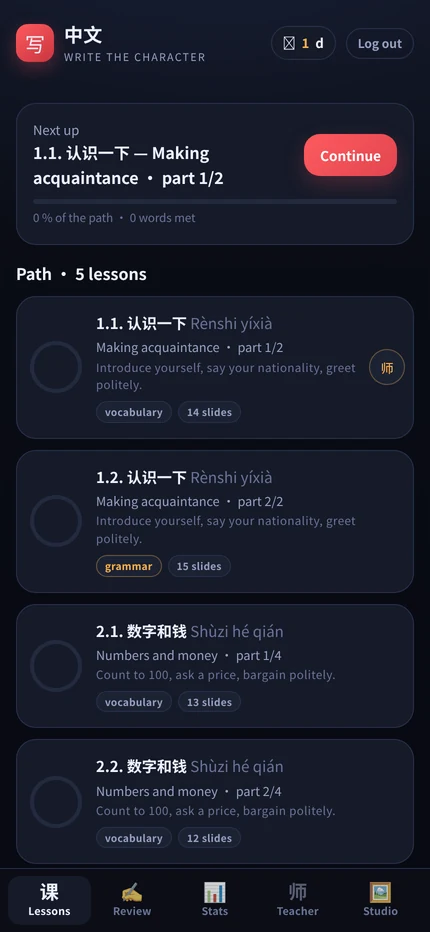
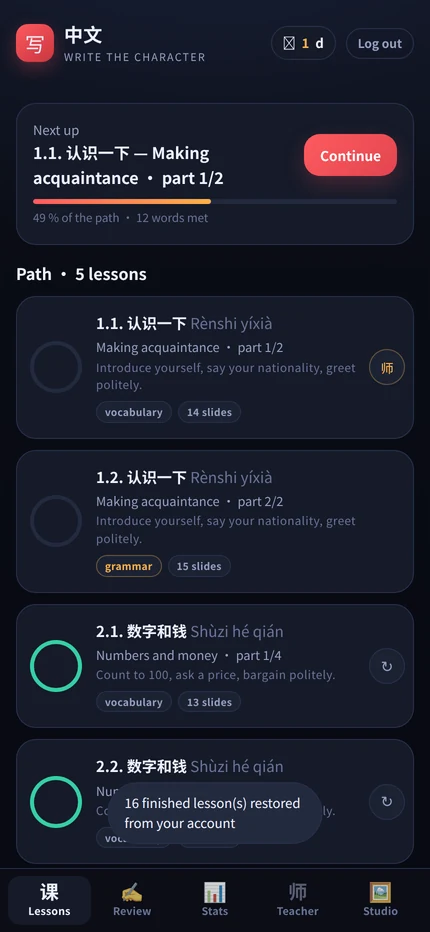
Add a pronunciation deck: word or sentence, said aloud, graded like the others
Third deck, same two piles. Cards come from the words you have met and the
sentences your lessons unlocked; the front shows only the Chinese, the back
the pinyin, the model audio and a microphone check (account only). Hard keeps
the card in today's pile, Okay sends it to the top of the deck, Easy to the
bottom. Reviews can be re-cut like the other two.

diff --git a/app/index.html b/app/index.html
@@ -406,6 +406,21 @@
       <button class="btn ghost full" id="restartSent" style="margin-top:8px;padding:10px;font-size:13px">↻ Restart sentences session</button>
       <p class="note" style="margin:10px 0 0">Sentences unlock as you finish lessons. Pinyin prompt, five characters at a time, validate at the end.</p>
     </div>
+
+    <div class="card" style="margin-bottom:14px">
+      <div class="spread">
+        <div>
+          <h2 style="margin:0">Pronunciation</h2>
+          <div class="sm muted" id="pronTxt" style="margin-top:2px">—</div>
+        </div>
+        <div class="pill brand" id="pronPill">0</div>
+      </div>
+      <div class="row" style="gap:8px;margin-top:14px">
+        <button class="btn primary full" id="btnPron">Say it out loud</button>
+      </div>
+      <button class="btn ghost full" id="restartPron" style="margin-top:8px;padding:10px;font-size:13px">↻ Restart pronunciation session</button>
+      <p class="note" style="margin:10px 0 0">Words and sentences you have met, one card at a time: say it, flip, hear the model, grade yourself.</p>
+    </div>
     <div class="card">
       <h2>Two piles</h2>
       <p class="note" style="margin:0">Each day takes the top <b id="perInline">20</b> cards into the study pile. Write the character, flip, judge yourself:
@@ -1218,6 +1233,8 @@ function fresh() {
   return { v: 2, words: {}, lessons: {}, days: {}, events: [], teacher: [], runs: [],
            deck: [], study: { date: "", queue: [] },
            sdeck: [], sstudy: { date: "", queue: [] }, sseed: false,
+           pdeck: [], pstudy: { date: "", queue: [] },
+           pmeta: { done: 0, easy: 0, okay: 0, hard: 0 },
            smeta: { done: 0, right: 0, wrong: 0 },
            meta: { cards: 0, ms: 0, toneR: 0, toneW: 0, shadow: 0, shadowN: 0 },
            settings: { goal: 20, rate: 0.85, perSession: 20, speakChars: false },
@@ -1236,6 +1253,9 @@ function normalizeState(st) {
   if (!st.settings) st.settings = { goal: 20, rate: 0.85, perSession: 20, speakChars: false };
   if (!st.settings.perSession) st.settings.perSession = 20;
   if (st.settings.speakChars === undefined) st.settings.speakChars = false;
+  if (!Array.isArray(st.pdeck)) st.pdeck = [];
+  if (!st.pstudy || !Array.isArray(st.pstudy.queue)) st.pstudy = { date: "", queue: [] };
+  if (!st.pmeta) st.pmeta = { done: 0, easy: 0, okay: 0, hard: 0 };
   if (!st.lessonFeedback || typeof st.lessonFeedback !== "object") st.lessonFeedback = {};
   if (typeof st.savedAt !== "number") st.savedAt = 0;
   return st;
@@ -1544,6 +1564,7 @@ function addToDeck(hz) {
   if (!WMAP[hz]) return;
   if (S.deck.includes(hz) || studyQueue().includes(hz)) return;
   S.deck.unshift(hz);                          // new words come first
+  addToPron(hz);
   save();
 }
 /* ---------- sentence deck: same two piles, one sentence per card ---------- */
@@ -1595,6 +1616,7 @@ function addSentencesToDeck(l) {
     if (!sentByKey(hz)) return;
     if (S.sdeck.includes(hz) || sentQueue().includes(hz)) return;
     S.sdeck.unshift(hz);
+    addToPron(hz);
     n++;
   });
   save();
@@ -1773,6 +1795,144 @@ function endSentSession() {
     </div>`;
   sheet.foot.innerHTML = '<button class="btn primary full" id="sClose">Done</button>';
   $("#sClose").onclick = () => { closeSheet(); renderReview(); renderLessons(); };
+}
+
+/* ---------- pronunciation deck: a word or a sentence, said out loud, then graded ---------- */
+let PRON = null;
+
+function pronKey(hz) { return hz; }
+
+function pronByKey(k) {
+  if (!k) return null;
+  if (WMAP_BASE[k]) {
+    const w = WMAP_BASE[k];
+    return { hz: w.hz, py: w.py, en: w.en, n: [...w.hz].length };
+  }
+  return sentByKey(k);
+}
+
+function pronQueue() {
+  if (!S.pstudy || !Array.isArray(S.pstudy.queue)) S.pstudy = { date: dayKey(), queue: [] };
+  return S.pstudy.queue;
+}
+
+function addToPron(hz) {
+  const item = pronByKey(hz);
+  if (!item) return false;
+  const n = [...item.hz].filter(c => /[\u4e00-\u9fff]/.test(c)).length;
+  if (n < 1 || n > 12) return false;
+  if (!Array.isArray(S.pdeck)) S.pdeck = [];
+  if (S.pdeck.includes(hz) || pronQueue().includes(hz)) return false;
+  S.pdeck.push(hz);
+  return true;
+}
+
+function backfillPron() {
+  if (!Array.isArray(S.pdeck)) S.pdeck = [];
+  let added = 0;
+  Object.keys(S.words || {}).forEach(hz => { if (addToPron(hz)) added++; });
+  (S.sdeck || []).forEach(hz => { if (addToPron(hz)) added++; });
+  if (added) save();
+  return added;
+}
+
+function pullPron(n) {
+  if (!Array.isArray(S.pdeck)) S.pdeck = [];
+  const take = Math.min(n || pullSize(), S.pdeck.length);
+  const pulled = S.pdeck.splice(0, take);
+  S.pstudy = { date: dayKey(), queue: pulled };
+  save();
+  return pulled.length;
+}
+
+function applyPronGrade(hz, g) {
+  const q = pronQueue();
+  const i = q.indexOf(hz);
+  if (i >= 0) q.splice(i, 1);
+  if (g === "easy") S.pdeck.push(hz);        // bottom of the deck
+  else if (g === "okay") S.pdeck.unshift(hz); // top of the deck
+  else q.push(hz);                            // bottom of today's pile
+  S.pmeta.done++; S.pmeta[g]++;
+  save();
+}
+
+function restartPron() {
+  const q = pronQueue();
+  if (!q.length) { toast("No pronunciation session running"); return; }
+  S.pdeck = q.concat(Array.isArray(S.pdeck) ? S.pdeck : []);
+  S.pstudy = { date: dayKey(), queue: [] };
+  save();
+  pullPron(pullSize());
+  renderReview();
+  toast("Today's pronunciation re-cut: " + pronQueue().length);
+}
+
+function startPronDeck() {
+  let q = pronQueue();
+  if (!q.length) {
+    if (!Array.isArray(S.pdeck) || !S.pdeck.length) { toast("Nothing to pronounce yet — meet some words first"); return; }
+    pullPron(pullSize());
+    q = pronQueue();
+  }
+  SESS = { q, live: true, i: 0, t0: Date.now(), mode: "pron" };
+  openSheet();
+  renderPronCard();
+}
+
+function renderPronCard() {
+  const q = pronQueue();
+  if (!q.length) return endPronSession();
+  const it = pronByKey(q[0]);
+  if (!it) { q.shift(); return renderPronCard(); }
+  const n = [...it.hz].filter(c => /[\u4e00-\u9fff]/.test(c)).length;
+  sheet.body.innerHTML = `
+    <div class="progressline"><i style="width:${pct(S.pmeta.done, S.pmeta.done + q.length)}%"></i></div>
+    <div class="spread xs dim" style="margin-bottom:6px">
+      <span>Pronunciation · ${q.length} in the pile</span>
+      <span>${n} character${n > 1 ? "s" : ""}</span>
+    </div>
+    <div class="card center" style="padding:22px 16px;margin-top:8px">
+      <div class="xs dim" style="letter-spacing:1.2px;text-transform:uppercase">say it out loud</div>
+      <div class="hz-big" style="font-size:${n <= 2 ? 68 : 34}px;margin-top:6px">${esc(it.hz)}</div>
+      <div id="pronReveal" class="hidden" style="margin-top:12px">
+        <div class="py" style="font-size:17px">${esc(it.py)}</div>
+        <div class="sm muted" style="margin-top:2px">${esc(it.en)}</div>
+        <button class="speak" id="pronSpk" style="margin-top:10px">🔊</button>
+      </div>
+      <div id="pronRec" class="hidden" style="margin-top:14px"></div>
+      <div id="pronCheck" style="margin-top:10px"></div>
+      <p class="note" style="margin:12px 0 0" id="pronHint">Say it, then flip to check the pinyin.</p>
+    </div>`;
+  $("#pronSpk") && ($("#pronSpk").onclick = () => speak(it.hz, 0.85));
+  sheet.foot.innerHTML = '<button class="btn primary full" id="pronFlip">Flip the card</button>';
+  $("#pronFlip").onclick = () => {
+    $("#pronReveal").classList.remove("hidden");
+    $("#pronHint").textContent = "Listen to the model, compare with what you said, then grade yourself.";
+    $("#pronFlip").remove();
+    if (MODE === "account") {
+      $("#pronRec").classList.remove("hidden");
+      buildRecorder($("#pronRec"), (blob) => showPronCheck(it.hz, blob, $("#pronCheck")));
+    }
+    sheet.foot.innerHTML = `
+      <button class="btn bad" id="pHard" style="flex:1">Hard</button>
+      <button class="btn warn" id="pOkay" style="flex:1">Okay</button>
+      <button class="btn ok" id="pEasy" style="flex:1">Easy</button>`;
+    $("#pHard").onclick = () => { applyPronGrade(it.hz, "hard"); renderReview(); renderPronCard(); };
+    $("#pOkay").onclick = () => { applyPronGrade(it.hz, "okay"); renderReview(); renderPronCard(); };
+    $("#pEasy").onclick = () => { applyPronGrade(it.hz, "easy"); renderReview(); renderPronCard(); };
+  };
+}
+
+function endPronSession() {
+  const M = S.pmeta || { done: 0, easy: 0, okay: 0, hard: 0 };
+  sheet.body.innerHTML = `
+    <div class="card center" style="padding:24px 18px">
+      <div style="font-size:34px">${M.hard === 0 ? "★★★" : M.easy >= M.done * 0.7 ? "★★☆" : "★☆☆"}</div>
+      <h2 style="margin:6px 0 4px">Session done</h2>
+      <p class="muted sm" style="margin:0">${M.easy || 0} easy · ${M.okay || 0} okay · ${M.hard || 0} hard · ${(S.pdeck || []).length} waiting</p>
+    </div>`;
+  sheet.foot.innerHTML = '<button class="btn primary full" id="pClose">Done</button>';
+  $("#pClose").onclick = () => { closeSheet(); renderReview(); };
 }
 
 function streak() {
@@ -2946,8 +3106,8 @@ function paintPron(host, res) {
     ${res.feedback ? `<div class="note" style="margin-top:8px;color:var(--ink)">${esc(res.feedback)}</div>` : ""}
   </div>`;
 }
-function showPronCheck(hz, blob) {
-  const host = $("#pronBox");
+function showPronCheck(hz, blob, hostEl) {
+  const host = hostEl || $("#pronBox");
   if (!host) return;
   if (MODE !== "account") {
     host.innerHTML = `<a class="btn ghost full" href="${API_BASE}/login?next=${encodeURIComponent(location.pathname + location.search)}">
@@ -2955,7 +3115,7 @@ function showPronCheck(hz, blob) {
     return;
   }
   host.innerHTML = '<button class="btn gold full" id="pronBtn">Check my pronunciation</button>';
-  const btn = $("#pronBtn");
+  const btn = host.querySelector("#pronBtn");
   btn.onclick = async () => {
     btn.disabled = true; btn.textContent = "Listening…";
     try {
@@ -3336,7 +3496,23 @@ function renderReview() {
   sb.disabled = !sq.length && !S.sdeck.length;
   sb.onclick = () => startSentenceDeck();
 
-  // cards per session, both decks
+  // pronunciation deck
+  const pq = pronQueue();
+  const pNext = Math.min(pullSize(), (S.pdeck || []).length);
+  $("#pronPill").textContent = pq.length ? pq.length : pNext;
+  $("#pronTxt").textContent = pq.length
+    ? pq.length + " card(s) left in today's pile · " + S.pdeck.length + " waiting"
+    : (S.pdeck.length
+        ? "Today's pile is clear · " + S.pdeck.length + " card(s) in the deck"
+        : "Nothing yet — the words and sentences you meet land here");
+  const pb = $("#btnPron");
+  pb.textContent = pq.length ? "Continue · " + pq.length + " left" : "Say " + pNext + " cards";
+  pb.disabled = !pq.length && !S.pdeck.length;
+  pb.onclick = () => startPronDeck();
+  const rp = $("#restartPron");
+  if (rp) { rp.disabled = !pq.length; rp.onclick = () => restartPron(); }
+
+  // cards per session, all decks
   $("#perVal").textContent = pullSize();
   $("#perInline").textContent = pullSize();
   $("#perMinus").onclick = () => { S.settings.perSession = Math.max(5, pullSize() - 5); save(); renderReview(); };
@@ -3446,6 +3622,7 @@ async function boot() {
     save();
   }
   backfillSentences();
+  backfillPron();
   paintMode();
   renderAll();
   renderTeacherFeed();

diff --git a/README.md b/README.md
@@ -12,16 +12,19 @@ Built for one learner (French native, ~1 year of Chinese). Interface in English.
 <p>
   <img src="docs/screenshots/01-lessons.webp" width="240" alt="The path of lessons">
   <img src="docs/screenshots/02-lesson.webp" width="240" alt="A word screen inside a lesson">
-  <img src="docs/screenshots/03-review.webp" width="240" alt="The two decks">
+  <img src="docs/screenshots/03-review.webp" width="240" alt="The three decks">
 </p>
 <p>
   <img src="docs/screenshots/04-character.webp" width="240" alt="A character card, stroke order running">
   <img src="docs/screenshots/05-sentence.webp" width="240" alt="A sentence card and its 3x3 keypad">
+  <img src="docs/screenshots/07-pronunciation.webp" width="240" alt="A pronunciation card, flipped">
+</p>
+<p>
   <img src="docs/screenshots/06-teacher.webp" width="240" alt="The teacher's note on a finished lesson">
 </p>
 
-*The path · a word inside a lesson · the two decks · a character card mid stroke-order · a sentence
-being built · the teacher's note attached to a finished lesson.*
+*The path · a word inside a lesson · the three decks · a character card mid stroke-order · a sentence
+being built · a pronunciation card · the teacher's note attached to a finished lesson.*
 
 ![no dependencies](https://img.shields.io/badge/frontend-none-1f2937) ![stdlib server](https://img.shields.io/badge/server-Python%20stdlib-1f2937) ![offline](https://img.shields.io/badge/offline-first-1f2937)
 
@@ -44,10 +47,12 @@ Rules baked into the content:
   against the characters taught *up to that lesson* (plus a small set of particles 吗 了 的 呢 吧 是…).
 - The 40 HSK1 base words are assumed known; everything else must appear in a lesson first.
 
-Two flashcard decks, both using the same physical-pile logic:
+Three flashcard decks, all using the same physical-pile logic:
 
 - **Characters** — French prompt, you write the character with your finger, flip, then the back shows
   the **stroke order**, animated stroke by stroke (data embedded, no network), pinyin, example.
+- **Pronunciation** — a word or a sentence you have met, shown alone: say it out loud, flip for the
+  pinyin, the model audio and (logged in) a microphone check, then grade yourself *Hard / Okay / Easy*.
 - **Sentences** — pinyin prompt (English optional), one slot per character, **9 characters in a 3 × 3
   keypad**, validate at the end; your row is coloured green/red above the correction.
 
